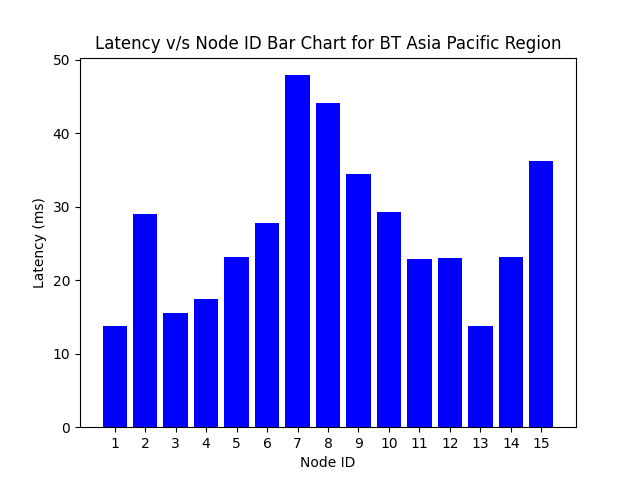
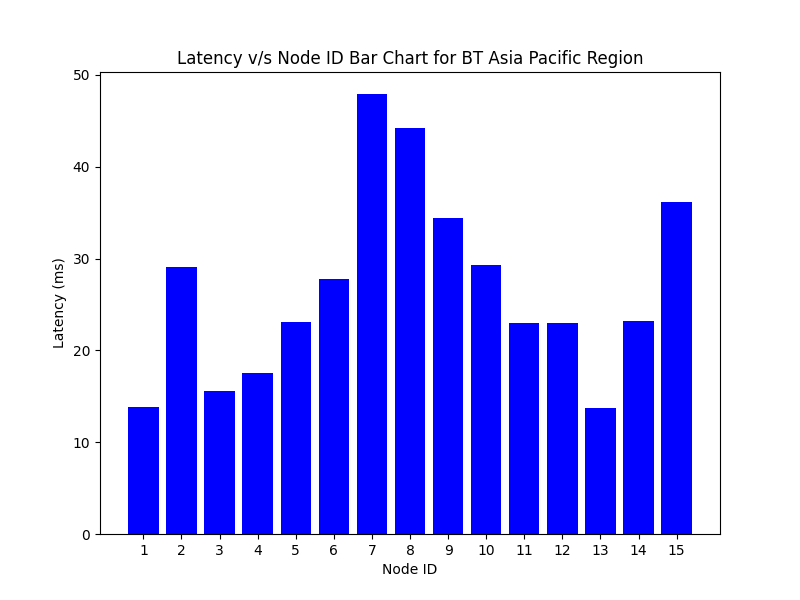
Fix graph size

diff --git a/NodesScript.py b/NodesScript.py
@@ -34,7 +34,7 @@ from distribute import selection_sort, linear_sort
 GRAPH_NO = 1  # For naming the Graphs
 
 
-def plotGraph(x, y, x_name, y_name, color, title, region_name):
+def plotGraph(x, y, x_name, y_name, color, title, region_name, fig_size=(8, 6)):
 
     # x-coordinates of left sides of bars
     left = list(range(1, len(x)+1))
@@ -44,6 +44,7 @@ def plotGraph(x, y, x_name, y_name, color, title, region_name):
     # Labels for bars: x_name
 
     # Plotting a Bar Chart
+    plt.figure(figsize=fig_size)
     plt.bar(left, y, tick_label=x,
             width=0.8, color=[color])
 
@@ -180,7 +181,7 @@ def doRegion(nodes, midpoint, region_name):
     plotGraph(x=node_id_list, y=latency_ratio_list_selection_sort,
               x_name="Node ID", y_name="Latency Ratio",
               color="Green", title=f"Normalised Latency Ratio v/s Node ID Bar Chart for {region_name} Region (Selection Sort)",
-              region_name=region_name)
+              region_name=region_name, fig_size=(12, 8))
 
     print(
         f"Max Value of Normalized Latency using Selection Sort is: {max(latency_ratio_list_selection_sort)}")
@@ -189,7 +190,7 @@ def doRegion(nodes, midpoint, region_name):
     plotGraph(x=node_id_list, y=latency_ratio_list_linear_sort,
               x_name="Node ID", y_name="Latency Ratio",
               color="Green", title=f"Normalised Latency Ratio v/s Node ID Bar Chart for {region_name} Region (Linear Sort)",
-              region_name=region_name)
+              region_name=region_name, fig_size=(12, 8))
 
     print(
         f"Max Value of Normalized Latency using Linear Sort is: {max(latency_ratio_list_linear_sort)}")
@@ -249,7 +250,7 @@ def doLoad(nodes, midpoint, region_name):
     plotGraph(x=node_id_list, y=load_ratio_list_selection_sort,
               x_name="Node ID", y_name="Load Ratio",
               color="green", title=f"Normalised Load Ratio v/s Node ID Bar Chart for {region_name} Region (Selection Sort)",
-              region_name=region_name)
+              region_name=region_name, fig_size=(12, 8))
 
     print(
         f"Max Value of Normalized Load using Selection Sort is: {max(load_ratio_list_selection_sort)}")
@@ -258,7 +259,7 @@ def doLoad(nodes, midpoint, region_name):
     plotGraph(x=node_id_list, y=load_ratio_list_linear_sort,
               x_name="Node ID", y_name="Load Ratio",
               color="green", title=f"Normalised Load Ratio v/s Node ID Bar Chart for {region_name} Region (Linear Sort)",
-              region_name=region_name)
+              region_name=region_name, fig_size=(12, 8))
 
     print(
         f"Max Value of Normalized Load using Linear Sort is: {max(load_ratio_list_linear_sort)}")

diff --git a/README.md b/README.md
@@ -72,16 +72,18 @@ The script generates various graphs to visualize network latency, load distribut
 ![Latency vs. Quadrant 3 Chart](Graphs/PPT%20Graphs/5_Latency_v_s_Quadrant_3_Chart.png)
 ![Latency vs. Quadrant 4 Chart](Graphs/PPT%20Graphs/6_Latency_v_s_Quadrant_4_Chart.png)
 ![Latency Ratio vs. Node ID for BT Asia Pacific Region](Graphs/PPT%20Graphs/7_Latency_Ratio_v_s_Node_ID_for_BT_Asia_Pacific_Region.png)
-![Normalized Latency Ratio vs. Node ID Bar Chart for BT Asia Pacific Region](Graphs/PPT%20Graphs/8_Normalised_Latency_Ratio_v_s_Node_ID_Bar_Chart_for_BT_Asia_Pacific_Region.png)
-![Load vs. Node Name Bar Chart for BT Asia Pacific Region](Graphs/PPT%20Graphs/9_Load_v_s_Node_Name_Bar_Chart_for_BT_Asia_Pacific_Region.png)
-![Load Ratio vs. Node Name Bar Chart for BT Asia Pacific Region](Graphs/PPT%20Graphs/10_Load_Ratio_v_s_Node_Name_Bar_Chart_for_BT_Asia_Pacific_Region.png)
-![Normalized Load Ratio vs. Node ID Bar Chart for BT Asia Pacific Region](Graphs/PPT%20Graphs/11_Normalised_Load_Ratio_v_s_Node_ID_Bar_Chart_for_BT_Asia_Pacific_Region.png)
-![Latency and Load](Graphs/PPT%20Graphs/12_LatencyAndLoad.png)
+![Normalized Latency Ratio vs. Node ID Bar Chart for BT Asia Pacific Region (Selection Sort)](<Graphs/PPT%20Graphs/8_Normalised_Latency_Ratio_v_s_Node_ID_Bar_Chart_for_BT_Asia_Pacific_Region_(Selection_Sort).png>)
+![Normalized Latency Ratio vs. Node ID Bar Chart for BT Asia Pacific Region (Linear Sort)](<Graphs/PPT%20Graphs/9_Normalised_Latency_Ratio_v_s_Node_ID_Bar_Chart_for_BT_Asia_Pacific_Region_(Linear_Sort).png>)
+![Load vs. Node Name Bar Chart for BT Asia Pacific Region](Graphs/PPT%20Graphs/10_Load_v_s_Node_Name_Bar_Chart_for_BT_Asia_Pacific_Region.png)
+![Load Ratio vs. Node Name Bar Chart for BT Asia Pacific Region](Graphs/PPT%20Graphs/11_Load_Ratio_v_s_Node_Name_Bar_Chart_for_BT_Asia_Pacific_Region.png)
+![Normalized Load Ratio vs. Node ID Bar Chart for BT Asia Pacific Region (Selection Sort)](<Graphs/PPT%20Graphs/12_Normalised_Load_Ratio_v_s_Node_ID_Bar_Chart_for_BT_Asia_Pacific_Region_(Selection_Sort).png>)
+![Normalized Load Ratio vs. Node ID Bar Chart for BT Asia Pacific Region (Linear Sort)](<Graphs/PPT%20Graphs/13_Normalised_Load_Ratio_v_s_Node_ID_Bar_Chart_for_BT_Asia_Pacific_Region_(Linear_Sort).png>)
+![Latency and Load](Graphs/PPT%20Graphs/14_LatencyAndLoad.png)
 
 ## Bellman-Ford Algorithm Applied to the Network
 
 The Bellman-Ford algorithm is applied to the network to find the shortest distance and the corresponding from the source node to all other nodes.
 
-![Bellman-Ford Algorithm](Graphs/PPT%20Graphs/1_BellmanFord.png)
+![Bellman-Ford Algorithm](Graphs/PPT%20Graphs/15_BellmanFord.png)
 
 View [bellman.md](./bellman.md) for the detailed output of the Bellman-Ford algorithm.

diff --git a/bellman.md b/bellman.md
@@ -595,36 +595,36 @@ No. of Nodes: 15
 
 | Neighbour Name | Latency (ms) |
 | --- | --- |
-| Jakarta | 64911.11 |
-| Perth | 85492.39 |
-| Kuala Lumpur | 35307.93 |
-| Sydney | 30.52 |
+| Jakarta | 24028.71 |
+| Perth | 21687.81 |
+| Kuala Lumpur | 2.18 |
+| Sydney | 57293.04 |
 | Auckland | 38.79 |
-| New Delhi | 32518.05 |
-| Mumbai | 32499.54 |
-| Seoul | 26.85 |
-| Tokyo | 52956.27 |
-| Taipei | 26262.56 |
-| Hong Kong | 96536.37 |
-| Manila | 74763.5 |
-| Bangkok | 10.27 |
-| Chenai | 50012.22 |
+| New Delhi | 33.5 |
+| Mumbai | 29.04 |
+| Seoul | 29868.88 |
+| Tokyo | 79495.3 |
+| Taipei | 43231.17 |
+| Hong Kong | 15.54 |
+| Manila | 13.89 |
+| Bangkok | 86120.75 |
+| Chenai | 48134.46 |
 
 ## Shortest Path from Source Node to all Nodes
 | Node Name | Old Distance (ms) | New Distance (ms) | Path |
 | --- | --- | --- | --- |
-| Jakarta | 64911.11 | 26.31 | Bangkok -> Jakarta |
-| Perth | 85492.39 | 43.95 | Bangkok -> Perth |
+| Jakarta | 24028.71 | 9.9 | Kuala Lumpur -> Jakarta |
+| Perth | 21687.81 | 28.15 | Kuala Lumpur -> Perth |
 | Singapore | 0 | 0 |  |
-| Kuala Lumpur | 35307.93 | 18.61 | Bangkok -> Kuala Lumpur |
-| Sydney | 30.52 | 30.52 | Sydney |
+| Kuala Lumpur | 2.18 | 2.18 | Kuala Lumpur |
+| Sydney | 57293.04 | 34.77 | Kuala Lumpur -> Sydney |
 | Auckland | 38.79 | 38.79 | Auckland |
-| New Delhi | 32518.05 | 35.0 | Bangkok -> New Delhi |
-| Mumbai | 32499.54 | 31.97 | Bangkok -> Mumbai |
-| Seoul | 26.85 | 26.85 | Seoul |
-| Tokyo | 52956.27 | 30.22 | Bangkok -> Tokyo |
-| Taipei | 26262.56 | 22.72 | Bangkok -> Taipei |
-| Hong Kong | 96536.37 | 18.92 | Bangkok -> Hong Kong |
-| Manila | 74763.5 | 24.71 | Bangkok -> Manila |
-| Bangkok | 10.27 | 10.27 | Bangkok |
-| Chenai | 50012.22 | 24.71 | Bangkok -> Chenai |
+| New Delhi | 33.5 | 33.5 | New Delhi |
+| Mumbai | 29.04 | 29.04 | Mumbai |
+| Seoul | 29868.88 | 27.4 | Hong Kong -> Seoul |
+| Tokyo | 79495.3 | 26.96 | Hong Kong -> Tokyo |
+| Taipei | 43231.17 | 19.43 | Hong Kong -> Taipei |
+| Hong Kong | 15.54 | 15.54 | Hong Kong |
+| Manila | 13.89 | 13.89 | Manila |
+| Bangkok | 86120.75 | 10.52 | Kuala Lumpur -> Bangkok |
+| Chenai | 48134.46 | 20.99 | Kuala Lumpur -> Chenai |
